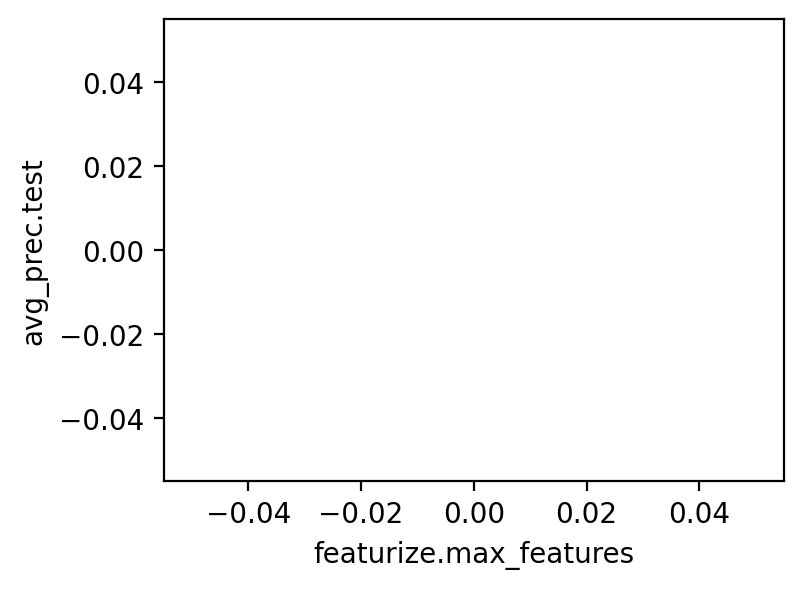
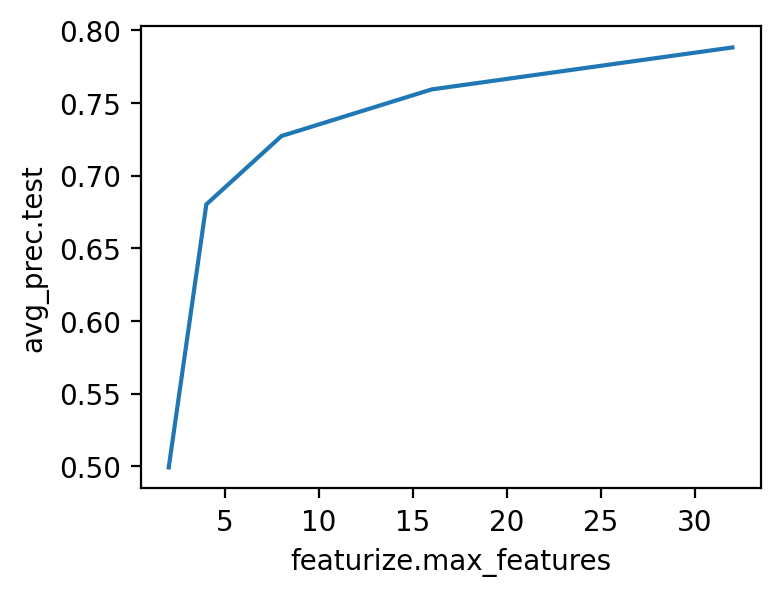
Render notebooks

diff --git a/examples/cool-example-1/notebooks/interactive.md b/examples/cool-example-1/notebooks/interactive.md
@@ -52,7 +52,7 @@ _exps_df
 
 
 ```python
-exps_df = exp_show(hide_baseline=True)
+exps_df = exp_show(hide_baseline=True, revs=["tagged-experiment"])
 ```
 
 
@@ -92,5 +92,5 @@ exps_df
   white-space: pre-wrap;
 }
 </style>
-<small>shape: (0, 26)</small><table border="1" class="dataframe"><thead><tr><th>Experiment</th><th>rev</th><th>typ</th><th>Created</th><th>parent</th><th>State</th><th>Executor</th><th>avg_prec.train</th><th>avg_prec.test</th><th>roc_auc.train</th><th>roc_auc.test</th><th>prepare.split</th><th>prepare.seed</th><th>featurize.max_features</th><th>featurize.ngrams</th><th>train.seed</th><th>train.n_est</th><th>train.min_split</th><th>data/data.xml</th><th>data/features</th><th>data/prepared</th><th>model.pkl</th><th>src/evaluate.py</th><th>src/featurization.py</th><th>src/prepare.py</th><th>src/train.py</th></tr><tr><td>null</td><td>str</td><td>str</td><td>str</td><td>null</td><td>null</td><td>null</td><td>f64</td><td>f64</td><td>f64</td><td>f64</td><td>f64</td><td>f64</td><td>f64</td><td>f64</td><td>f64</td><td>f64</td><td>f64</td><td>str</td><td>str</td><td>str</td><td>str</td><td>str</td><td>str</td><td>str</td><td>str</td></tr></thead><tbody></tbody></table></div>
+<small>shape: (5, 26)</small><table border="1" class="dataframe"><thead><tr><th>Experiment</th><th>rev</th><th>typ</th><th>Created</th><th>parent</th><th>State</th><th>Executor</th><th>avg_prec.train</th><th>avg_prec.test</th><th>roc_auc.train</th><th>roc_auc.test</th><th>prepare.split</th><th>prepare.seed</th><th>featurize.max_features</th><th>featurize.ngrams</th><th>train.seed</th><th>train.n_est</th><th>train.min_split</th><th>data/data.xml</th><th>data/features</th><th>data/prepared</th><th>model.pkl</th><th>src/evaluate.py</th><th>src/featurization.py</th><th>src/prepare.py</th><th>src/train.py</th></tr><tr><td>str</td><td>str</td><td>str</td><td>str</td><td>null</td><td>str</td><td>str</td><td>f64</td><td>f64</td><td>f64</td><td>f64</td><td>f64</td><td>f64</td><td>f64</td><td>f64</td><td>f64</td><td>f64</td><td>f64</td><td>str</td><td>str</td><td>str</td><td>str</td><td>str</td><td>str</td><td>str</td><td>str</td></tr></thead><tbody><tr><td>&quot;max-features-sweep-5&quot;</td><td>&quot;5149c91&quot;</td><td>&quot;branch_commit&quot;</td><td>&quot;03:00 PM&quot;</td><td>null</td><td>&quot;Success&quot;</td><td>&quot;Dvc-task&quot;</td><td>0.874616</td><td>0.788185</td><td>0.931143</td><td>0.865073</td><td>0.2</td><td>2.0170428e7</td><td>32.0</td><td>2.0</td><td>2.0170428e7</td><td>50.0</td><td>0.01</td><td>&quot;22a1a2931c8370d3aeedd7183606fd…</td><td>&quot;4e925b8acc2804e8def55056ed1408…</td><td>&quot;153aad06d376b6595932470e459ef4…</td><td>&quot;eab02fbc332882a8a703c8c7a5bee8…</td><td>&quot;a1a59f55636170fb56e0c6afd3e28f…</td><td>&quot;e22789fc9581cad11ef7a6fa3aa3f1…</td><td>&quot;f54d670ac8a4f63206781fc31d1f26…</td><td>&quot;324001573ed724e5ae092226fcf9ca…</td></tr><tr><td>&quot;max-features-sweep-1&quot;</td><td>&quot;0cea6e5&quot;</td><td>&quot;branch_commit&quot;</td><td>&quot;03:00 PM&quot;</td><td>null</td><td>&quot;Success&quot;</td><td>&quot;Dvc-task&quot;</td><td>0.509346</td><td>0.499269</td><td>0.727099</td><td>0.72494</td><td>0.2</td><td>2.0170428e7</td><td>2.0</td><td>2.0</td><td>2.0170428e7</td><td>50.0</td><td>0.01</td><td>&quot;22a1a2931c8370d3aeedd7183606fd…</td><td>&quot;16f507947bd34321b58c1fffd2dd83…</td><td>&quot;153aad06d376b6595932470e459ef4…</td><td>&quot;b4379374296de283459217a19dcfa4…</td><td>&quot;a1a59f55636170fb56e0c6afd3e28f…</td><td>&quot;e22789fc9581cad11ef7a6fa3aa3f1…</td><td>&quot;f54d670ac8a4f63206781fc31d1f26…</td><td>&quot;324001573ed724e5ae092226fcf9ca…</td></tr><tr><td>&quot;max-features-sweep-3&quot;</td><td>&quot;b133303&quot;</td><td>&quot;branch_commit&quot;</td><td>&quot;03:00 PM&quot;</td><td>null</td><td>&quot;Success&quot;</td><td>&quot;Dvc-task&quot;</td><td>0.751372</td><td>0.727249</td><td>0.823053</td><td>0.810283</td><td>0.2</td><td>2.0170428e7</td><td>8.0</td><td>2.0</td><td>2.0170428e7</td><td>50.0</td><td>0.01</td><td>&quot;22a1a2931c8370d3aeedd7183606fd…</td><td>&quot;ed5960fa4bcdfbe0b24f97ca989cf8…</td><td>&quot;153aad06d376b6595932470e459ef4…</td><td>&quot;5de7365bf745ec1702b3a38a4a9afc…</td><td>&quot;a1a59f55636170fb56e0c6afd3e28f…</td><td>&quot;e22789fc9581cad11ef7a6fa3aa3f1…</td><td>&quot;f54d670ac8a4f63206781fc31d1f26…</td><td>&quot;324001573ed724e5ae092226fcf9ca…</td></tr><tr><td>&quot;max-features-sweep-4&quot;</td><td>&quot;f4ea98c&quot;</td><td>&quot;branch_commit&quot;</td><td>&quot;03:00 PM&quot;</td><td>null</td><td>&quot;Success&quot;</td><td>&quot;Dvc-task&quot;</td><td>0.826579</td><td>0.759325</td><td>0.887925</td><td>0.826432</td><td>0.2</td><td>2.0170428e7</td><td>16.0</td><td>2.0</td><td>2.0170428e7</td><td>50.0</td><td>0.01</td><td>&quot;22a1a2931c8370d3aeedd7183606fd…</td><td>&quot;feb1dfa5aec2bab364e000448c2ddf…</td><td>&quot;153aad06d376b6595932470e459ef4…</td><td>&quot;e4e019dec0ef1a3650b06348db1ae4…</td><td>&quot;a1a59f55636170fb56e0c6afd3e28f…</td><td>&quot;e22789fc9581cad11ef7a6fa3aa3f1…</td><td>&quot;f54d670ac8a4f63206781fc31d1f26…</td><td>&quot;324001573ed724e5ae092226fcf9ca…</td></tr><tr><td>&quot;max-features-sweep-2&quot;</td><td>&quot;1a259a2&quot;</td><td>&quot;branch_base&quot;</td><td>&quot;03:00 PM&quot;</td><td>null</td><td>&quot;Success&quot;</td><td>&quot;Dvc-task&quot;</td><td>0.691321</td><td>0.680199</td><td>0.783392</td><td>0.781675</td><td>0.2</td><td>2.0170428e7</td><td>4.0</td><td>2.0</td><td>2.0170428e7</td><td>50.0</td><td>0.01</td><td>&quot;22a1a2931c8370d3aeedd7183606fd…</td><td>&quot;ec848350825d44293cda477932e187…</td><td>&quot;153aad06d376b6595932470e459ef4…</td><td>&quot;2c436ec304f65896df326c6459f845…</td><td>&quot;a1a59f55636170fb56e0c6afd3e28f…</td><td>&quot;e22789fc9581cad11ef7a6fa3aa3f1…</td><td>&quot;f54d670ac8a4f63206781fc31d1f26…</td><td>&quot;324001573ed724e5ae092226fcf9ca…</td></tr></tbody></table></div>
 
